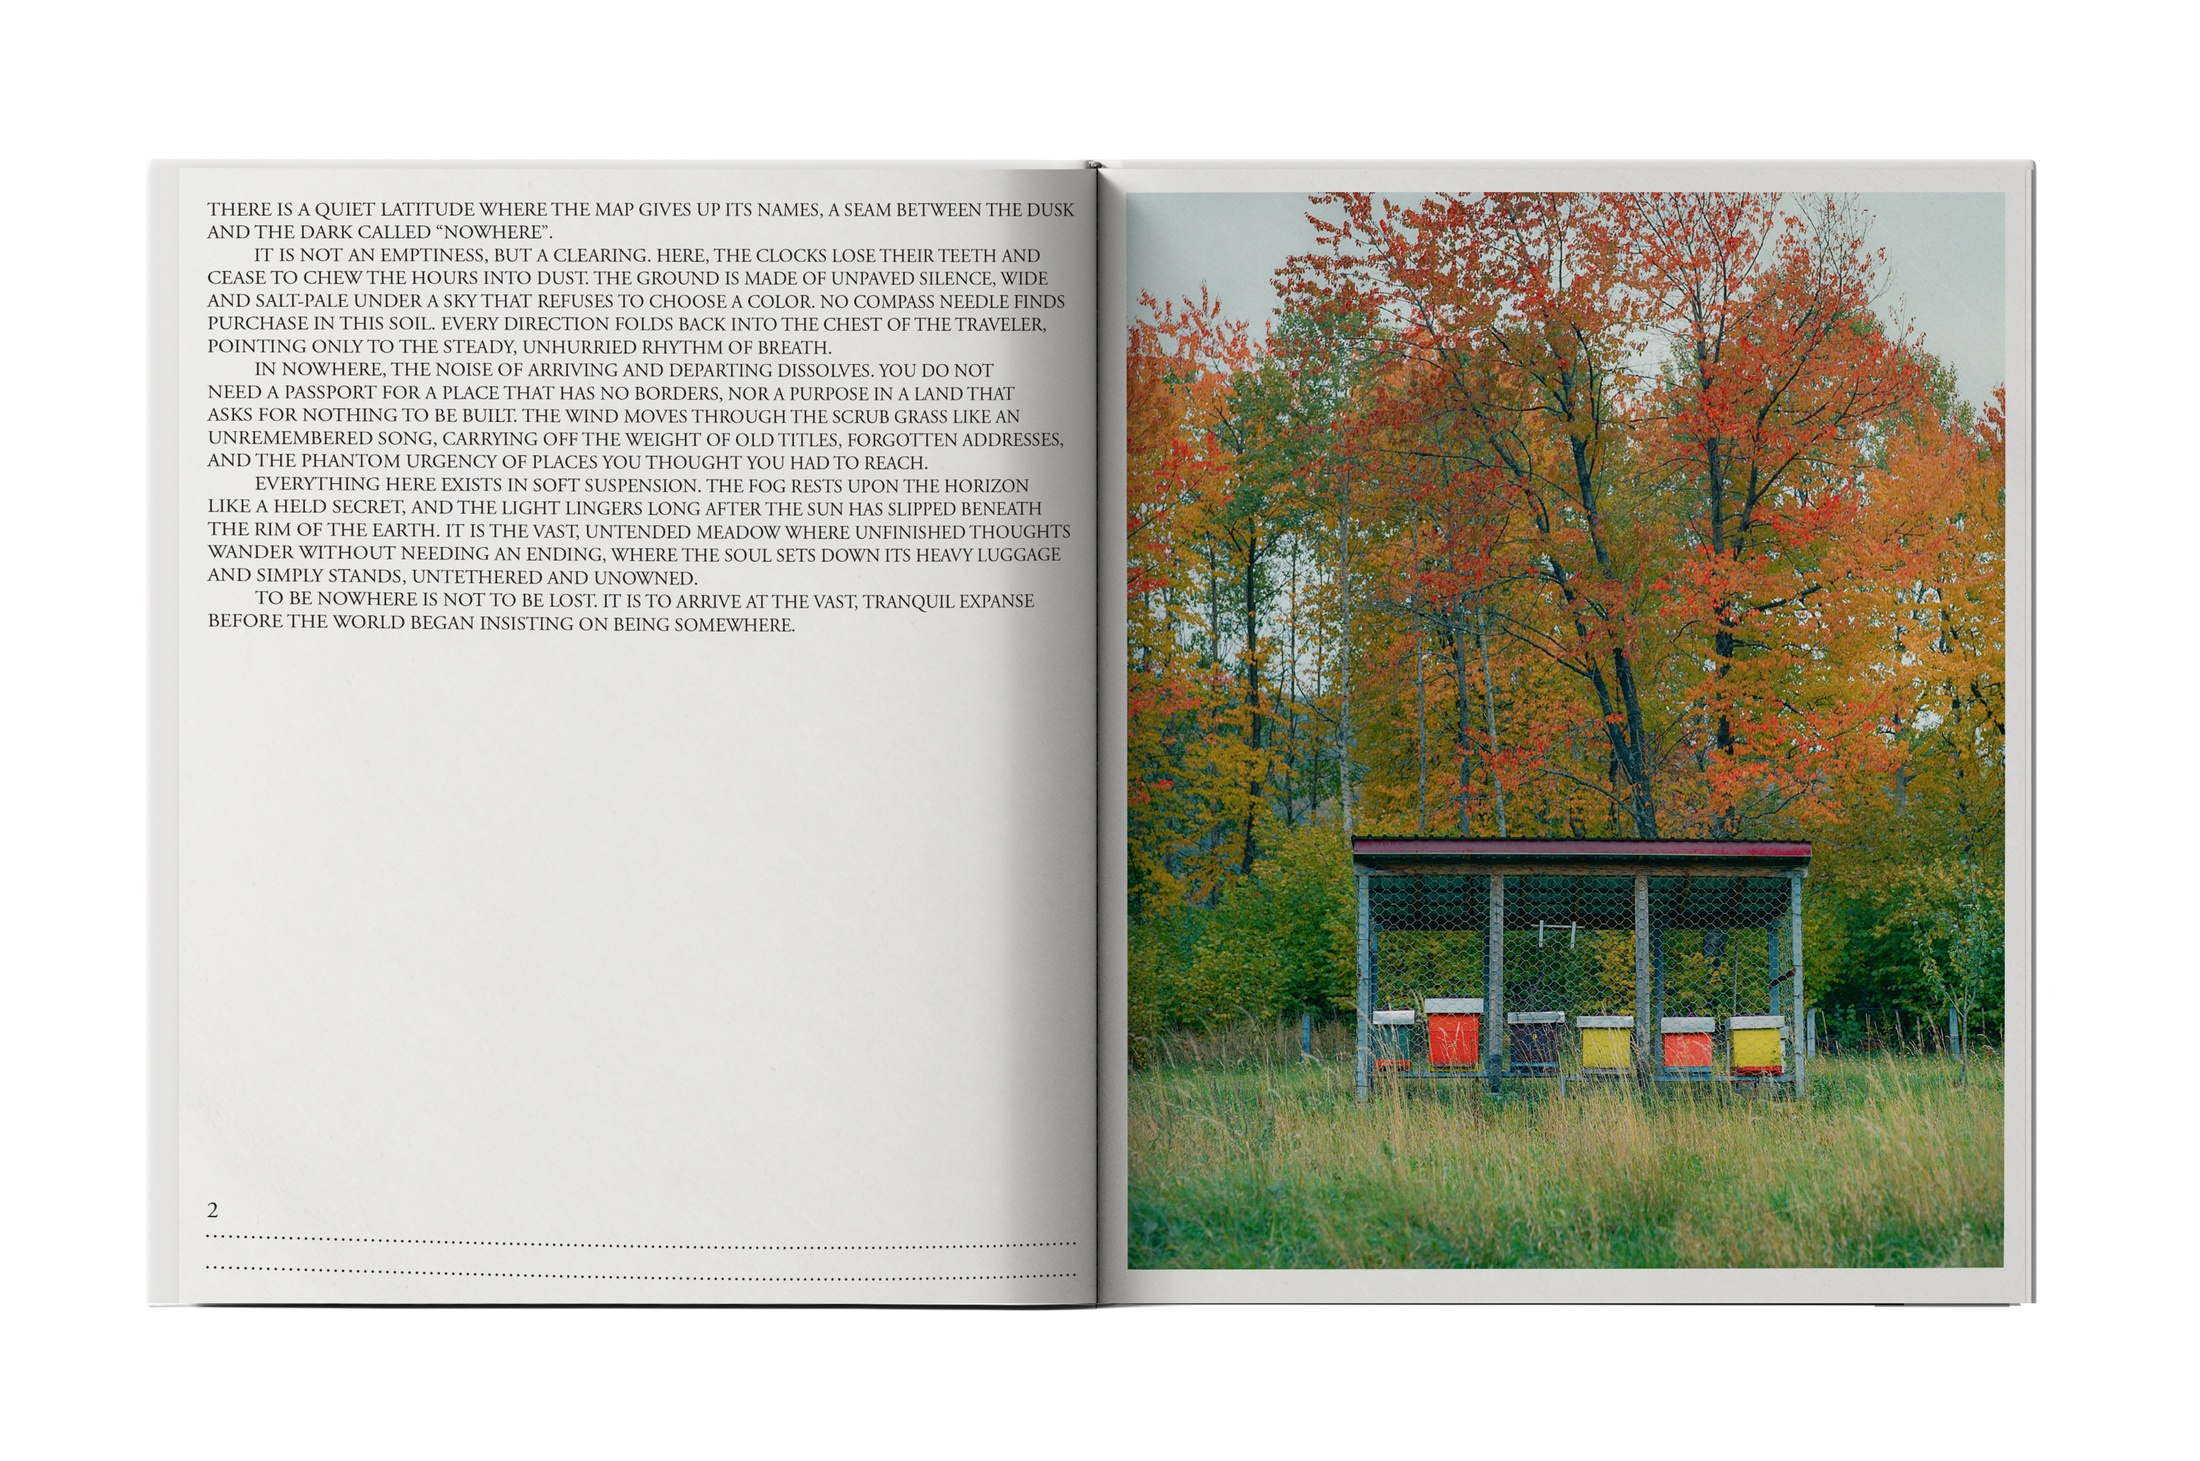
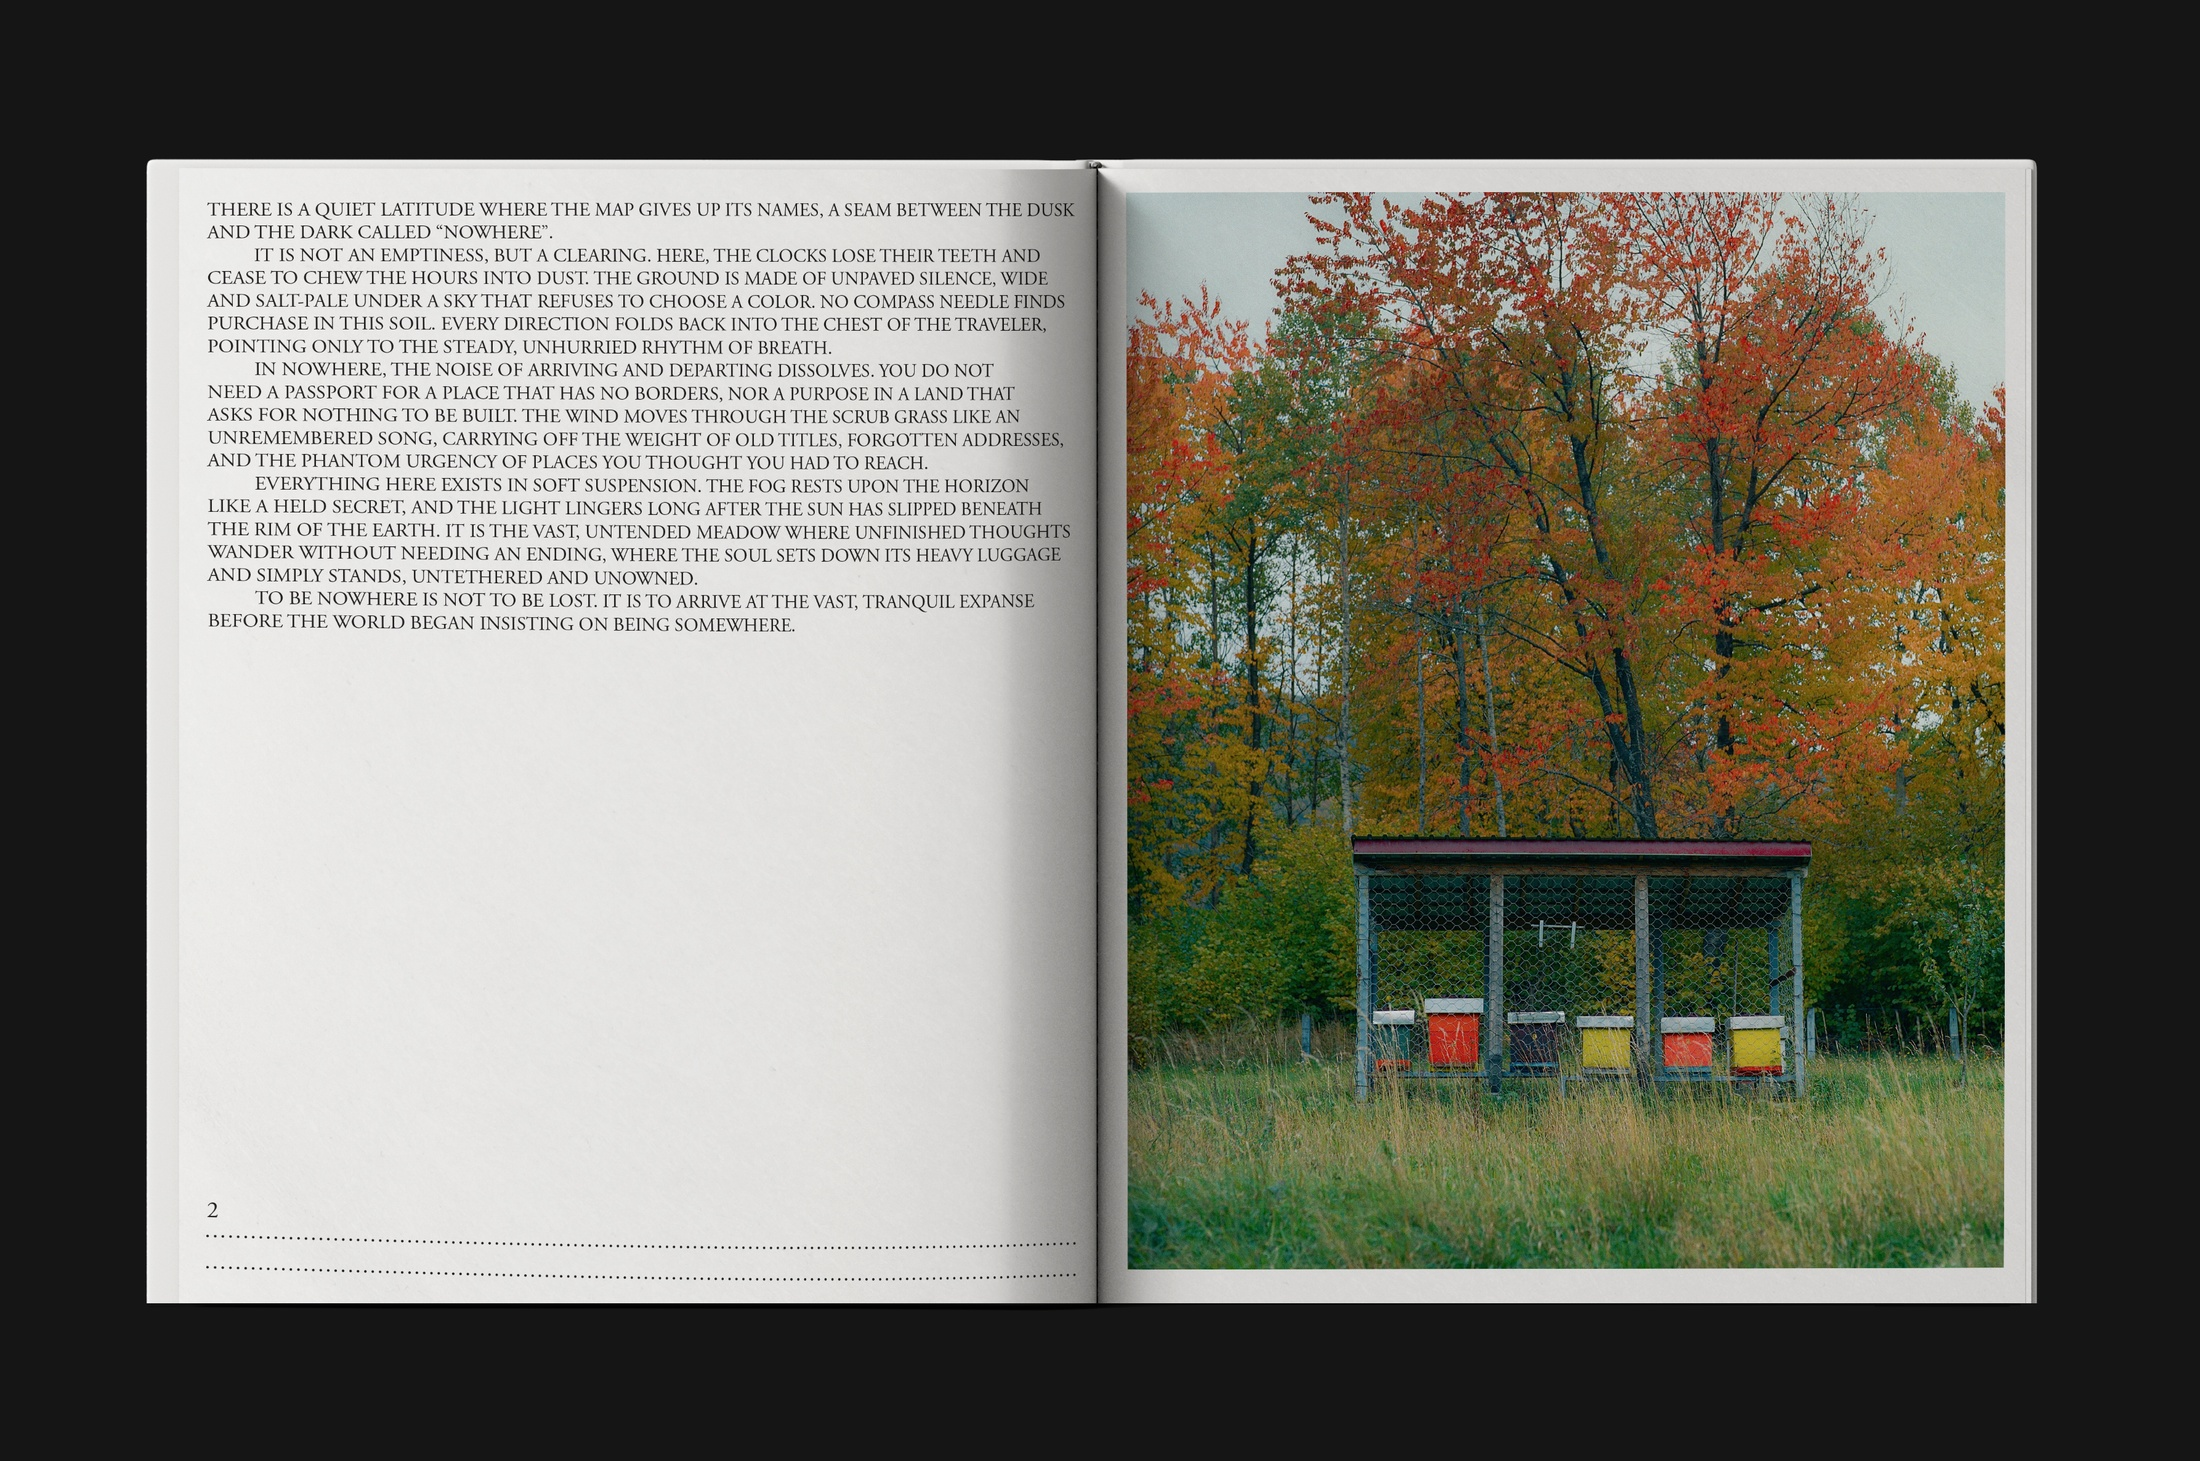
Update untiteld postcards with new book mockup images

diff --git a/src/content/design-projects/untiteld-postcards.md b/src/content/design-projects/untiteld-postcards.md
@@ -6,3 +6,11 @@ cover: "../../assets/design-projects/untiteld-postcards/untiteld-postcards-01.jp
 featured: true
 order: 3
 ---
+
+![](../../assets/design-projects/untiteld-postcards/untiteld-postcards-02.jpg)
+
+![](../../assets/design-projects/untiteld-postcards/untiteld-postcards-03.jpg)
+
+![](../../assets/design-projects/untiteld-postcards/untiteld-postcards-04.jpg)
+
+![](../../assets/design-projects/untiteld-postcards/untiteld-postcards-05.jpg)
